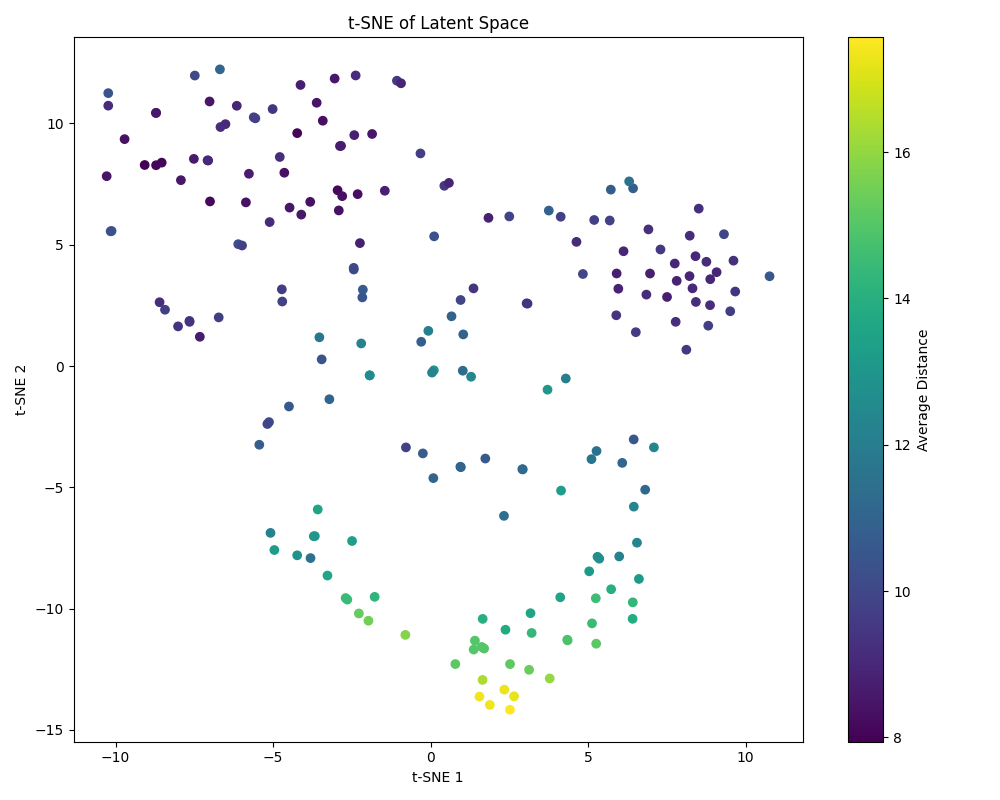
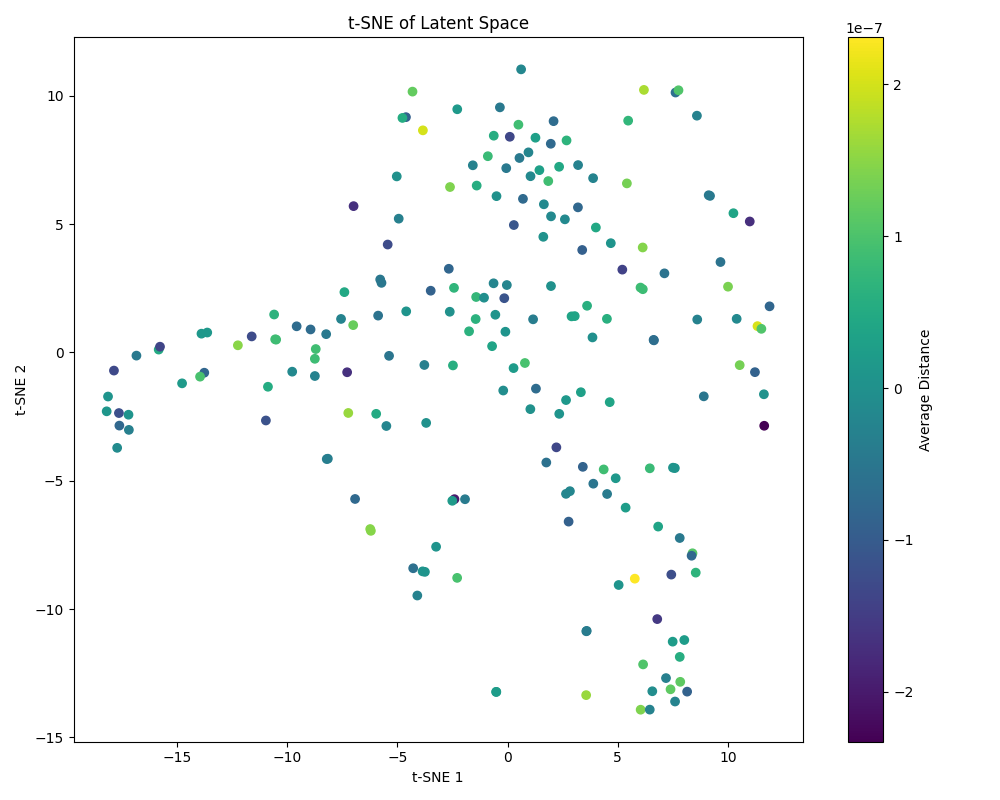
fix normalization, noise

diff --git a/examples/train_mlp_autoencoder.py b/examples/train_mlp_autoencoder.py
@@ -12,19 +12,25 @@ from tqdm import tqdm
 import sys
 from skimage.metrics import structural_similarity as ssim
 
+def normalize(matrix):
+    mean = matrix.mean()
+    std = matrix.std()
+    return (matrix - mean) / std, mean, std
+
+def denormalize(matrix, mean, std):
+    return matrix * std + mean
+
 def main():
     data_file = Path("data/test_distance_matrices_16.npy")
     if not data_file.exists():
         raise FileNotFoundError(f"Test matrices file not found: {data_file}")
 
     n_samples = 1000
-    noise_std = 0.2
+    noise_std = 1.5
     batch_size = 32
     epochs = 50
     if torch.backends.mps.is_available():
         device = torch.device("mps")
-    elif torch.cuda.is_available():
-        device = torch.device("cuda")
     else:
         device = torch.device("cpu")
     print(f"Using device: {device}")
@@ -43,41 +49,61 @@ def main():
     print("\nGenerating training samples...")
     train_noisy = []
     train_clean = []
+    train_means = []
+    train_stds = []
     for i in tqdm(range(n_samples), desc="Creating training data"):
         matrix_idx = np.random.randint(len(original_matrices))
         original_matrix = original_matrices[matrix_idx]
         tensor = torch.from_numpy(original_matrix).float()
         noisy_tensor = NoiseTransforms.add_gaussian_noise(tensor, std=noise_std)
-        train_noisy.append(noisy_tensor.numpy())
-        train_clean.append(original_matrix)
+        
+        # Normalize matrices
+        normalized_noisy, mean, std = normalize(noisy_tensor.numpy())
+        normalized_clean, _, _ = normalize(original_matrix)
+        
+        train_noisy.append(normalized_noisy)
+        train_clean.append(normalized_clean)
+        train_means.append(mean)
+        train_stds.append(std)
     
     np.save(train_dir / "noisy.npy", np.stack(train_noisy))
     np.save(train_dir / "clean.npy", np.stack(train_clean))
+    np.save(train_dir / "means.npy", np.array(train_means))
+    np.save(train_dir / "stds.npy", np.array(train_stds))
 
     print("\nGenerating validation samples...")
     val_noisy = []
     val_clean = []
+    val_means = []
+    val_stds = []
     for i in tqdm(range(n_samples // 5), desc="Creating validation data"):
         matrix_idx = np.random.randint(len(original_matrices))
         original_matrix = original_matrices[matrix_idx]
         tensor = torch.from_numpy(original_matrix).float()
         noisy_tensor = NoiseTransforms.add_gaussian_noise(tensor, std=noise_std)
-        val_noisy.append(noisy_tensor.numpy())
-        val_clean.append(original_matrix)
+        
+        # Normalize matrices
+        normalized_noisy, mean, std = normalize(noisy_tensor.numpy())
+        normalized_clean, _, _ = normalize(original_matrix)
+        
+        val_noisy.append(normalized_noisy)
+        val_clean.append(normalized_clean)
+        val_means.append(mean)
+        val_stds.append(std)
     
     np.save(val_dir / "noisy.npy", np.stack(val_noisy))
     np.save(val_dir / "clean.npy", np.stack(val_clean))
+    np.save(val_dir / "means.npy", np.array(val_means))
+    np.save(val_dir / "stds.npy", np.array(val_stds))
 
     print("\nSetting up data loaders...")
     train_dataset = ProteinDistanceDataset(
         train_dir / "noisy.npy",
-        transform=DistanceMatrixTransforms.normalize,
         return_pairs=True
     )
 
     val_dataset = ProteinDistanceDataset(
         val_dir / "noisy.npy",
-        transform=DistanceMatrixTransforms.normalize,
         return_pairs=True
     )
 
@@ -152,13 +178,25 @@ def main():
         predictions = model(noisy_batch.view(noisy_batch.size(0), -1))
         predictions = predictions.view(clean_batch.size())
         
+        # Load means and stds for denormalization
+        val_means = np.load(val_dir / "means.npy")
+        val_stds = np.load(val_dir / "stds.npy")
+        
+        # Denormalize for visualization and SSIM
+        predictions = predictions.cpu().numpy()
+        clean_batch = clean_batch.cpu().numpy()
+        noisy_batch = noisy_batch.cpu().numpy()
+        
         fig_dir = train_dir / "figures"
         fig_dir.mkdir(exist_ok=True)
         
         for i in range(min(5, len(predictions))):
-            clean = clean_batch[i].cpu().numpy()
-            noisy = noisy_batch[i].cpu().numpy()
-            pred = predictions[i].cpu().numpy()
+            mean = val_means[i]
+            std = val_stds[i]
+            
+            clean = denormalize(clean_batch[i], mean, std)
+            noisy = denormalize(noisy_batch[i], mean, std)
+            pred = denormalize(predictions[i], mean, std)
             
             ssim_noisy = ssim(clean, noisy, data_range=clean.max() - clean.min())
             ssim_pred = ssim(clean, pred, data_range=clean.max() - clean.min())

diff --git a/utils/transforms.py b/utils/transforms.py
@@ -7,7 +7,9 @@ class NoiseTransforms:
     @staticmethod
     def add_gaussian_noise(tensor: torch.Tensor, std: float = 0.2) -> torch.Tensor:
         """Add Gaussian noise to tensor"""
-        return tensor + torch.randn_like(tensor) * std
+        noise = torch.randn_like(tensor) * std
+        noisy_tensor = tensor + noise
+        return noisy_tensor.clamp(min=tensor.min().item(), max=tensor.max().item())
     
     @staticmethod
     def mask_random_entries(tensor: torch.Tensor, mask_prob: float = 0.15) -> torch.Tensor:

diff --git a/README.md b/README.md
@@ -12,11 +12,11 @@ The current implementation serves as a proof of concept using small (16x16) dist
 
 ### Data
 
-PDB files are downloaded and processed using the `data/download_pdbs.py` and `data/get_pairwise_matrices.py` scripts, the idea being to extract non-overlapping protein fragments and calculate pairwise distance matrices for each fragment.
+PDB files are downloaded and processed using the `data/download_pdbs.py` and `data/get_pairwise_matrices.py` scripts, the idea being to extract non-overlapping protein fragments and calculate pairwise distance matrices for each one.
 
 ### Sample Reconstruction
 
-![Sample Reconstruction](data/train_denoising/figures/reconstruction_3.png)
+![Sample Reconstruction](data/train_denoising/figures/reconstruction_4.png)
 
 ## Next Steps
 
